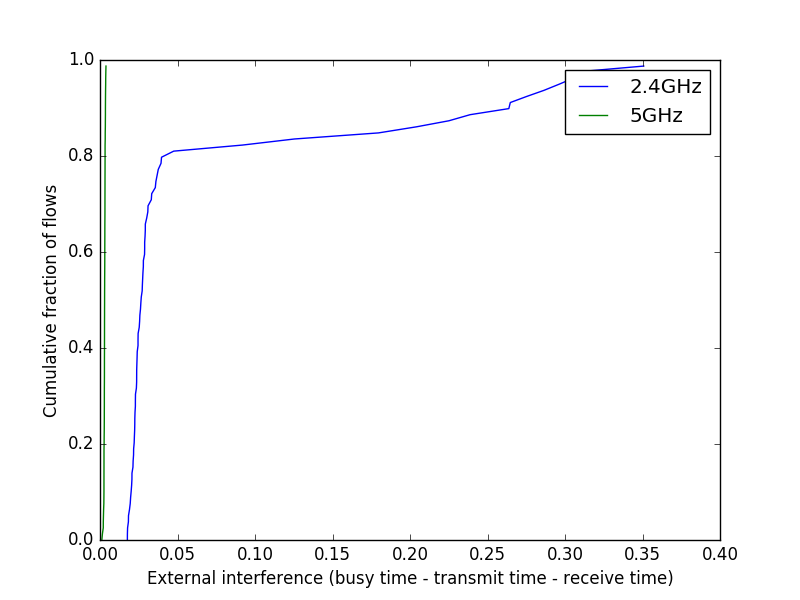
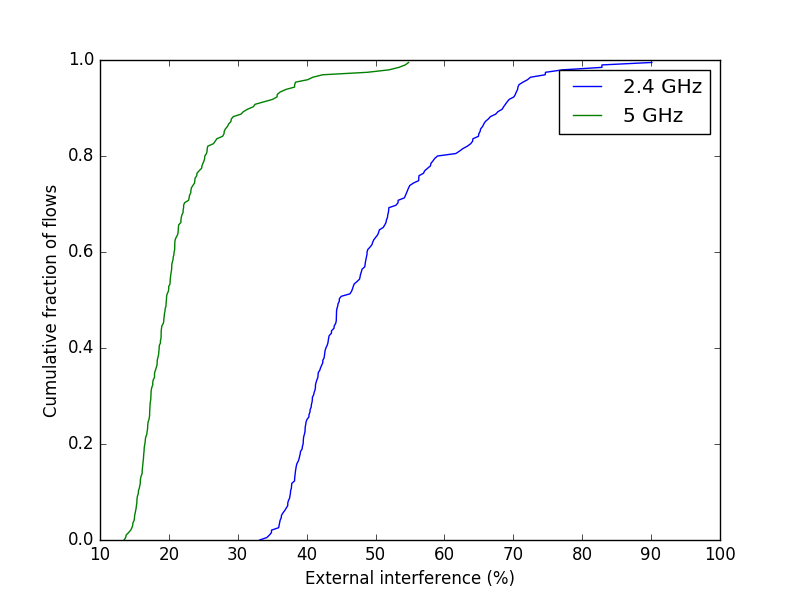
Updated evaluation chapter

diff --git a/evaluation.tex b/evaluation.tex
@@ -7,11 +7,10 @@ In this section, we demonstrate SOAR's utility by implementing three example use
 
 We perform both active and passive measurements of network traffic from home wireless access point and correlate those measurements with the wireless metrics for the corresponding traffic. Passive measurements reflect the actual performance more accurately. Unlike passive measurement, active measurements generate additional network traffic that are sent over the network to, for example, measuring the time it takes for the packet to reach the other end of the network (TCP RTT) and the available capacity of a wireless network. However, active measurements might introduce contention or disturb the normal traffic flow. Combining active and passive measurements is called hybrid measurements. 
 
-To generate the maximum possible send/receive rate that \sysname can achieve. we use \texttt{socket.send}/\texttt{socket.recv} within a tight loop and using a timer to saturate the available network bandwidth. We perform all tests between clients on the same wireless network and the home access point. We collect network traffic statistics and channel survey information from both wireless interfaces on the access point. The data collection on the access point is done by periodically querying some data exposed by our platform's supported API (e.g, \texttt{get\_network\_bytes} and \texttt{wifi\_status}). Our sandbox environment ensure that monitoring should not have any negative impact on the routers. 
+To generate the maximum possible send/receive rate that \sysname can achieve. we use \texttt{socket.send}/\texttt{socket.recv} within a tight loop and using a timer to saturate the available network bandwidth. We perform all tests between clients on the same wireless network and the home access point. We collect network traffic statistics and channel survey information from both wireless interfaces on the access point. The data collection on the access point is done by periodically querying some data exposed by our platform's supported API (e.g, \texttt{get\_network\_bytes} and \texttt{wifi\_status}). Our sandbox environment ensure that monitoring should not have any negative impact on the routers. To study TCP round-trip time between the wireless router and a wireless client, we implement a simple tool - tcping using our supported API (e.g., \texttt{openconnection}, \texttt{socketobject.send}, etc). 
  
 \subsection{Deployment Experience}
 \label{ssec.deployment}
-
 We deploy our platform on a TP-Link TL-WDR3600 router, which has a 560 MHz MIPS processor, 8MB of flash storage, 128MB of RAM and a dual-band wireless interface. We replace the router's default software with a custom version of OpenWrt Chaos Calmer~\cite{openwrt}. The 802.11 interface operates at both 2.4 GHz and 5 GHz bands. The location is in NYU campus, which is an office building. 
 
 \subsection{Metrics}
@@ -21,7 +20,7 @@ Our metrics are based on supported APIs provided by \sysname. We use channel bus
 
 \textbf{Channel busy time:} The channel busy time is the amount of time the primary channel was sensed busy. This seems to be about the same as the sum of channel transmit and receive times, unless there is a lot of external interference (like another busy Wi-Fi network on the same channel)\cite{channelsurvey}. We report the channel busy time every 30 seconds. Typically, a lower channel busy time is an indicator of good throughput and negligible interference.
 
-\textbf{Channel transmit and receive time:} The channel transmit and receive time are the amount of time the radio spent transmitting and receiving data. In general, the following relation seems to be like that: 
+\textbf{Channel transmit and receive time:} The channel transmit and receive time are the amount of time the radio spent transmitting and receiving data. In general, the following relation seems to be like that \cite{cfg80211}: 
 
 \(\frac{t_{channel-tx} + t_{channel-rx}}{t_{channel}} < \frac{t_{channel-busy}}{t_{channel}} < 100\%\).
 
@@ -55,7 +54,7 @@ For this experiment, the router that we use enables both 2.4 GHz and 5 GHz radio
 \hspace*{\fill} % separation between the subfigures
 \begin{subfigure}{0.45\textwidth}
 \includegraphics[width=\linewidth]{figure/retries(2g_vs_5g).png}
-\caption{Network traffic in the 2.4 GHz band experience higher tx retries.} 
+\caption{Network traffic in the 2.4 GHz band experience higher retransmission.} 
 \label{fig:retries}
 \end{subfigure}
 \hspace*{\fill} % separation between the subfigures
@@ -70,7 +69,7 @@ For this experiment, the router that we use enables both 2.4 GHz and 5 GHz radio
 
 \textbf{2.4 GHz vs. 5 GHz:} To investigate the performance of 5 GHz and 2.4 GHz band, we use throughput, channel utilization, retransmission times and external interference as our indicator of wireless performance because we can obtain these metrics easily from our supported APIs. We calculate throughput as follows: using \texttt{get\_network\_bytes} to provide TCP statistics. We study the aggregate TCP throughput achieved during the captured lifetime of the network traffic. We compute the average throughput at every one-second interval by the divisor of aggregate TCP throughput and the difference between the correspond timestamp. \texttt{get\_station} can help us obtain the number of retry packets at each clients. We also compute channel utilization and external interference as the percentage of channel busy time and external interference time in any given one-second interval. 
 
-We see that the use of 5 GHz improves performance, reducing channel utilization, external interference and retransmission rate. Figure \ref{fig:throughput} shows the network traffic in the 5 GHz band achieve higher throughput. Figure \ref{fig:utilization} shows the channel utilization in 2.4 GHz are much higher than 5 GHz. Figure \ref{fig:retries} shows the retransmission times per 40 seconds; the result shows that retransmissions are more common in the 2.4 GHz band. TCP retransmissions are usually due to network congestion. Figure \ref{fig:interference} plots the CDF of the external interference for all network traffic for both the 2.4 GHz band and the 5 GHz bands. The 5 GHz band has less interference as signal does not propagate well through walls. A limiting factor to identify the real wireless performance is the lack of contention and feedback from external sources (i.e., local contention and non-WiFi wireless devices). However, we still leverage channel busy time to detect airtime utilization.
+We see that the use of 5 GHz improves performance, reducing channel utilization, external interference and retransmission rate. Figure \ref{fig:throughput} plots CDF of the throughput for all network traffic in wireless network, for both the 2.4 GHz band and the 5 GHz band. Only 20\% of 2.4 GHz network traffic see throughput above 0.4 Mbps; in contrast, more than 25\% of network traffic in the 5 GHz spectrum see throughput greater than 0.45 Mbps. Figure \ref{fig:utilization} shows the channel utilization for all network traffic in wireless network; the result shows that channel utilization in 2.4 GHz are much higher than 5 GHz, with about 95\% of network traffic having channel utilization above 20\%. Figure \ref{fig:retries} shows the retransmission times per second; the result shows that retransmissions are more common in the 2.4 GHz band, likely because the 5 GHz band is less crowded. Figure \ref{fig:interference} plots the CDF of the external interference for all network traffic for both the 2.4 GHz band and the 5 GHz bands. The 5 GHz band has less interference as it provides 23 non-overlapping channels. A limiting factor to identify the real wireless performance is the lack of contention and feedback from external sources (i.e., local contention and non-WiFi wireless devices). However, we still leverage channel busy time to detect channel utilization and external interference.
 
 \begin{figure}
 \centering
@@ -102,7 +101,7 @@ The growing popularity of wireless networks leads to heavy utilization and conge
 
 As \cite{channelsurvey} did before, we replicated this experiment through our \sysname platform. We use \texttt{wifi\_status} to collect channel busy time, active time, transmit time and receive time. Figure \ref{fig:channelsurvey} shows the channel survey statistics captured in 2.4 GHz band. We find that channel active time is the same as running time if you don't change channels. Channel busy time seems to be the same as the sum of transmit time and receive time, unless there is a lot of external interference (e.g, heavy external traffic on the same channel, non-WiFi devices).
 
-Next, we study the potential indicator can cause the degradation of a wireless performance. We therefore investigate this, by correlating the throughput (which can be caused by interference) with the airtime utilization and external interference. Interestingly, we find that there is no strong correlation between wireless performance and airtime utilization or external interference. Table \ref{table: Correlation} shows the correlation between these indicators available at the AP and the observed TCP throughput from our continuous measurements. We observe that, lower airtime utilization does not necessarily result in higher TCP throughput. Note that we need to interpret our findings with cautiousness. First, the TCP traffic do not saturate the wireless link. This is because our platform is deployed on resource-constrained devices. Therefore, we do not have fine-grained feedback of highest airtime utilization or external interference. Second, our platform does not capture all the activities in the home wireless network for a long time, which would allow us to gain deeper insights for the correlation between throughput and airtime utilization. Third, our platform does not report the traffic from nearby networks, which would allow us to gain deeper insights from the external interference.
+Next, we study the potential indicator can cause the degradation of a wireless performance. We therefore investigate this, by correlating the throughput (which can be caused by interference) with the airtime utilization, external interference and signal strength. Interestingly, we find that there is no strong correlation between wireless performance and these metrics. Table \ref{table: Correlation} shows the correlation between these indicators available at the AP and the observed TCP throughput from our continuous network measurements. We observe that, lower airtime utilization does not necessarily result in higher TCP throughput. Note that we need to interpret our findings with cautiousness. First, the TCP traffic do not saturate the wireless link. This is because our platform is deployed on resource-constrained devices. Therefore, we do not have fine-grained feedback of highest airtime utilization or external interference. Second, our platform does not capture all the activities in the home wireless network for a long time, which would allow us to gain deeper insights for the correlation between throughput and airtime utilization. Third, our platform does not report the traffic from nearby networks, which would allow us to gain deeper insights from the external interference.
 
 \begin{table*}[]
 \centering
@@ -110,9 +109,11 @@ Next, we study the potential indicator can cause the degradation of a wireless p
 \hline
 Indicator               & Correlation Coefficient  \\ 
 \hline
-Airtime               & -0.094  \\ 
+Channel Utilization               &-0.0528  \\ 
 \hline
-External Interference & -0.031 \\ 
+External Interference & -0.0444 \\ 
+\hline
+Signal Strength & 0.0163 \\
 \hline
 \end{tabular}
 \caption{Correlation of metrics with the observed TCP throughput.}
